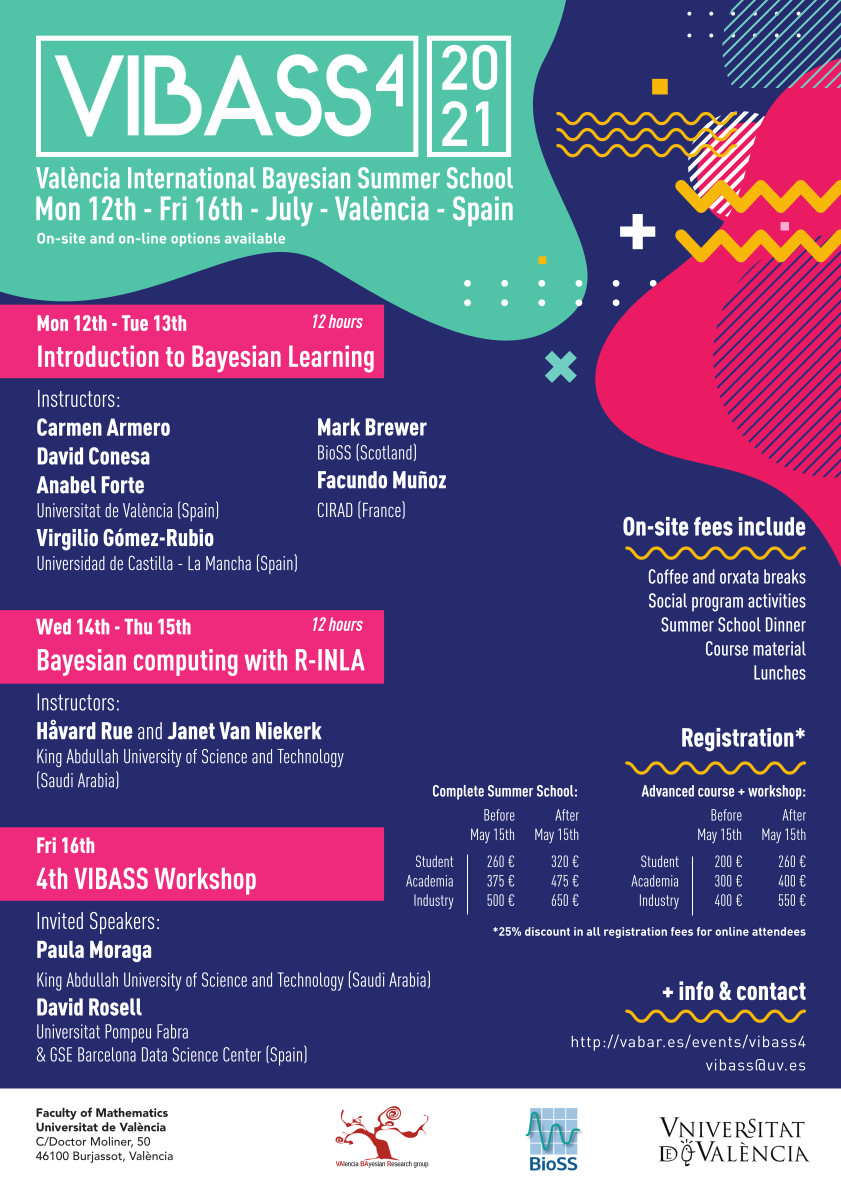
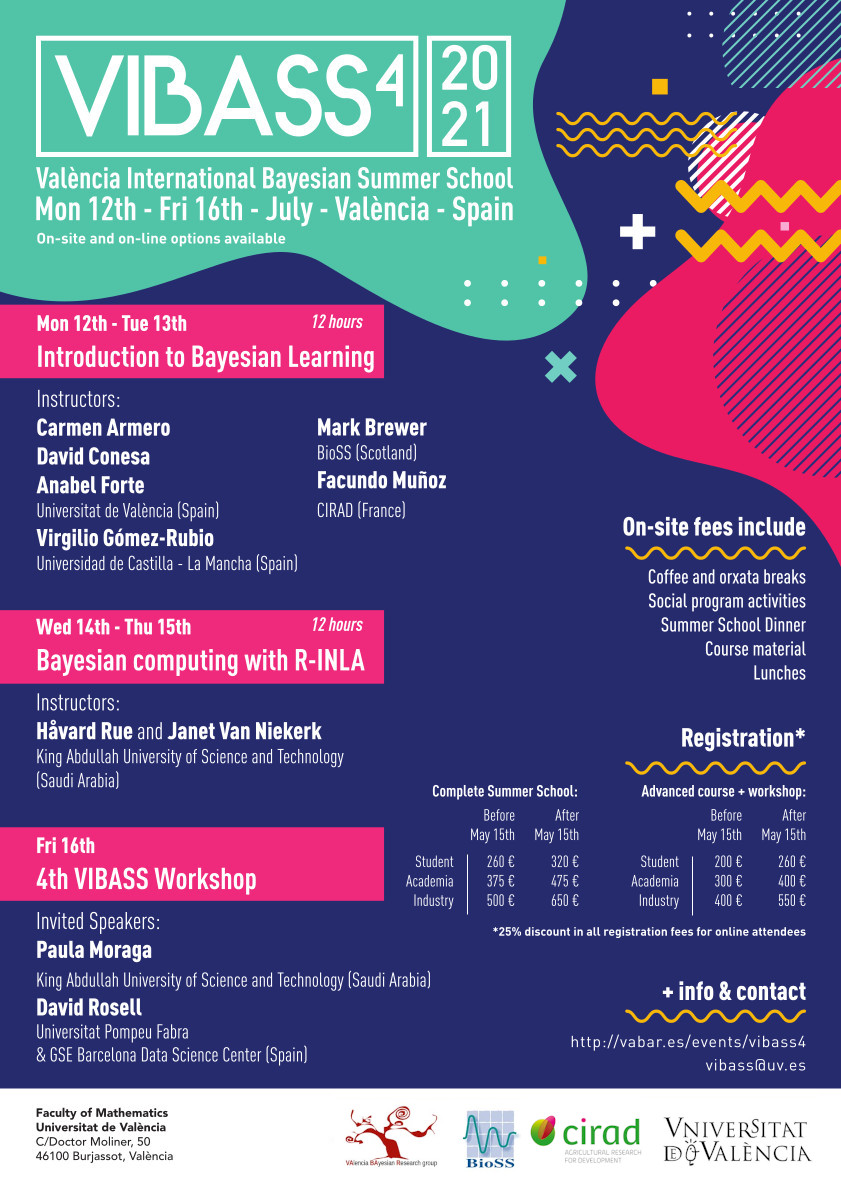
VIBASS4: Add Cirad as sponsor institution

Changed region(s): [[0.5565, 0.9328, 0.9584, 0.995], [0.4019, 0.9328, 0.5256, 0.995]]

diff --git a/_posts/events/2019-11-16-vibass4/2019-11-15-vibass4.md b/_posts/events/2019-11-16-vibass4/2019-11-15-vibass4.md
@@ -130,6 +130,7 @@ Abstracts must include the title of the paper, name(s) of the author(s) and of t
 
 - València Bayesian Research Group ([VaBaR]({{ site.url }}))
 - Biomathematics and Statistics Scotland ([BioSS](http://www.bioss.ac.uk/))
+- Centre de Coopération Internationale de Recherche Agronomique pour le Développement ([CIRAD](https://www.cirad.fr/)).
 - [Master in Biostatistics (UV)](https://www.uv.es/uvweb/master-biostatistics/en/master-s-degree-biostatistics-1285882529090.html)
 <!-- - [Master in Data Science (UV)](https://www.uv.es/uvweb/master-data-science/en/master-s-degree-data-science-1285949661373.html) -->
 - [Department of Statistics and Operations Research](http://www.uv.es/eio) ([Universitat de València](http://www.uv.es/))
@@ -140,4 +141,4 @@ Abstracts must include the title of the paper, name(s) of the author(s) and of t
 
 Please note that by participating at the VIBASS school you implicitly agree and adhere to our [code of conduct]({{ site.url }}/coc/)
 
-<img class="t60" src="{{ site.urlimg }}footer_vibass17.png" alt="">
+<img class="t60" src="{{ site.urlimg }}footer_vibass21.png" alt="">
